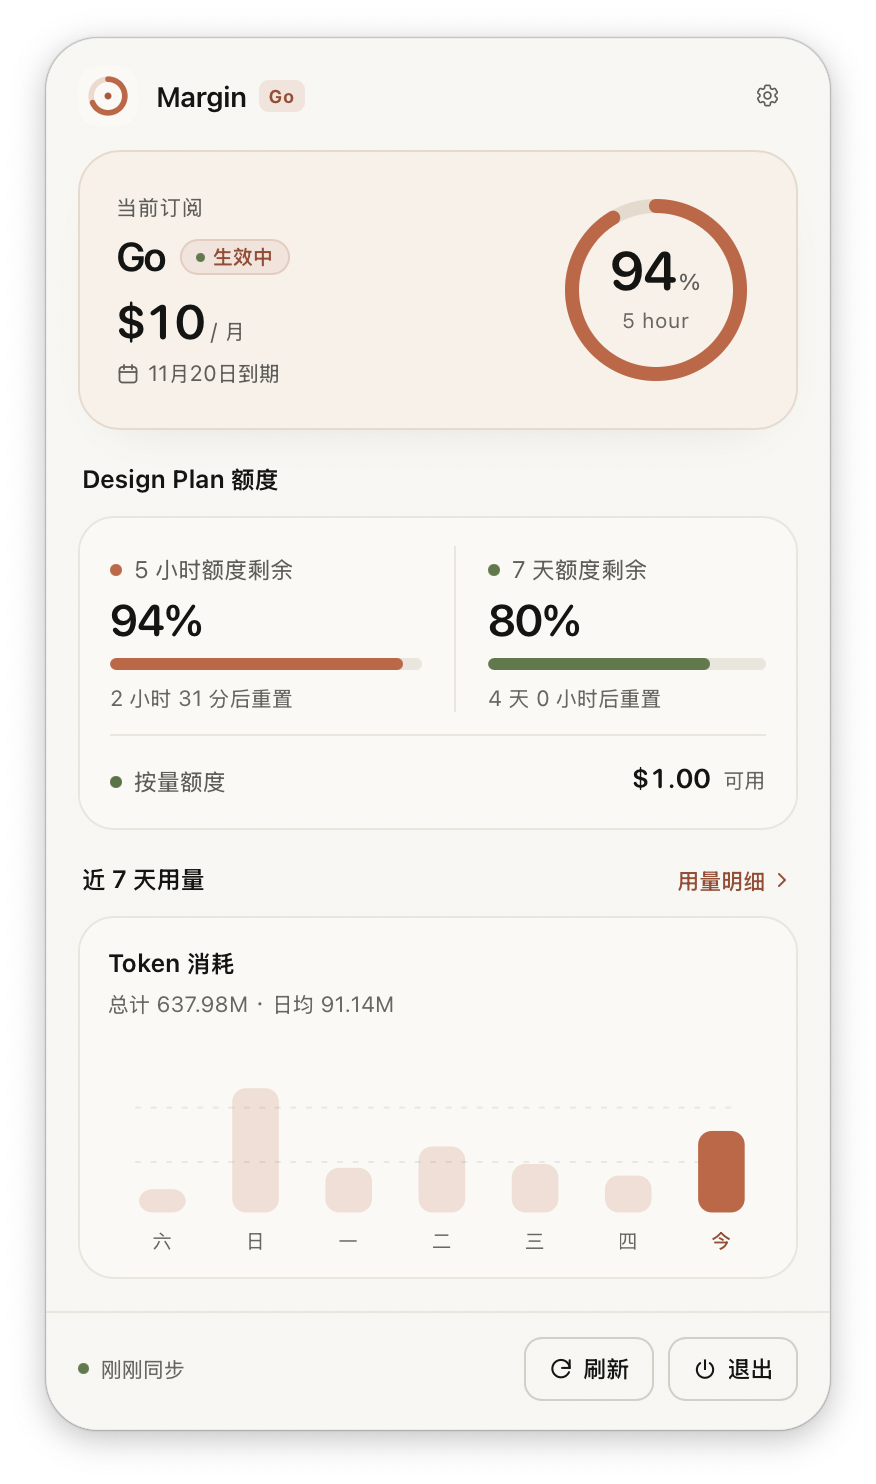
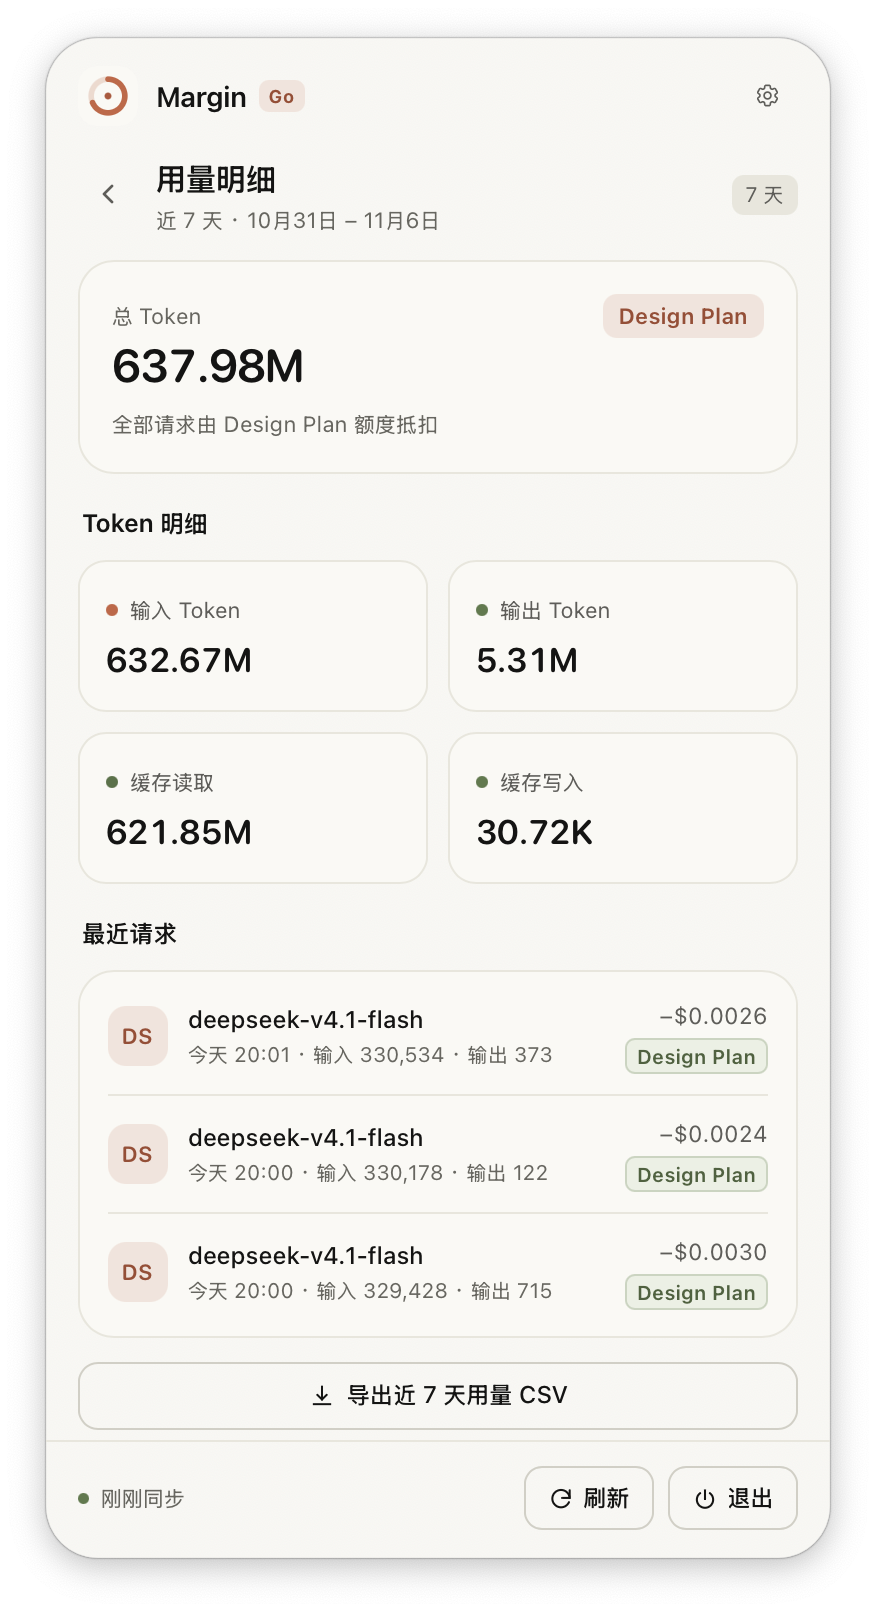
7 天柱状图显示每天的具体数值

diff --git a/Resources/web/popover.html b/Resources/web/popover.html
@@ -470,6 +470,14 @@ button { font: inherit; color: inherit; }
 .chart-bar.is-today { fill: var(--chart-bar-hi); }
 .chart-bar.is-skeleton { fill: var(--surface-3); }
 @keyframes barGrow { from { transform: scaleY(0.04); opacity: 0.4; } }
+.chart-value {
+  font-size: 9.5px;
+  fill: var(--text-3);
+  font-variant-numeric: tabular-nums;
+  letter-spacing: -0.01em;
+}
+.chart-value.is-today { fill: var(--text-2); }
+
 .chart-label { fill: var(--text-3); font-size: 10.5px; font-family: var(--font-ui); }
 .chart-label.is-today { fill: var(--accent-strong); font-weight: 600; }
 .chart-empty { margin: 10px 0 8px; font-size: 11px; line-height: 1.5; color: var(--text-3); }
@@ -1166,6 +1174,17 @@ html.constrained .pop-body { flex: 1 1 auto; min-height: 0; overflow-y: auto; }
         bar.appendChild(title);
       }
       svg.appendChild(bar);
+
+      // 柱子上方的数值：没有数据/骨架时不画，免得出现一排 0
+      if (!day.skeleton && day.tokensLabel && (day.ratio || 0) > 0) {
+        var value = document.createElementNS(SVGNS, 'text');
+        value.setAttribute('class', 'chart-value' + (day.isToday ? ' is-today' : ''));
+        value.setAttribute('x', 28 + 48 * i);
+        value.setAttribute('y', 94 - height - 5);
+        value.setAttribute('text-anchor', 'middle');
+        value.textContent = day.tokensLabel;
+        svg.appendChild(value);
+      }
 
       var label = document.createElementNS(SVGNS, 'text');
       label.setAttribute('class', 'chart-label' + (day.isToday ? ' is-today' : ''));
